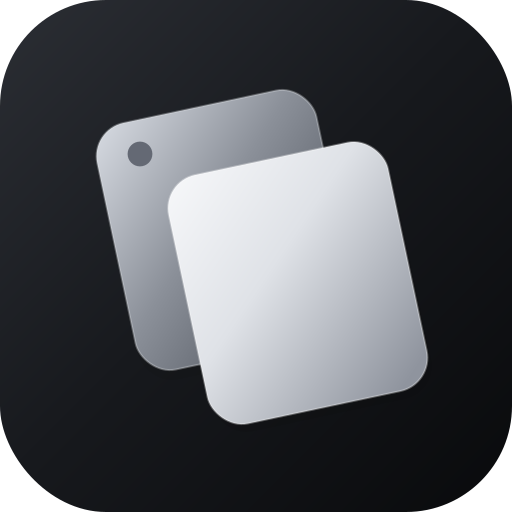
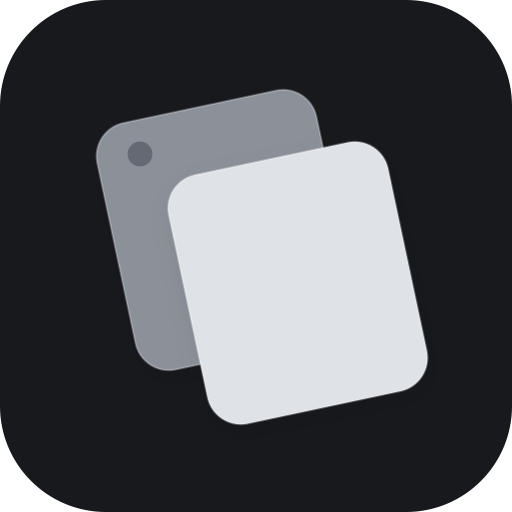
Landing page: left-aligned, flat colours, black background
Left-align the hero, drop every gradient from the page and its icons in favour of
solid colours, and use pure black as the dark theme background.

diff --git a/site/index.html b/site/index.html
@@ -31,12 +31,11 @@
     --ease: cubic-bezier(.2, .8, .2, 1);
 
     /* Dark (default) */
-    --page: radial-gradient(120% 90% at 50% 0%, #22252B 0%, var(--obsidian) 45%, var(--ink) 100%);
+    --page: #000000;
     --fg: var(--snow);
     --fg2: var(--silver);
     --tint: 216 220 227;
     --hi: 247 248 250;
-    --h1-end: #A9AEB7;
     --glass: rgba(28,30,35,.82);
     --toast: rgba(23,25,29,.85);
     --scrim: rgba(5,6,8,.35);
@@ -49,13 +48,12 @@
     color-scheme: dark;
   }
   :root[data-theme="light"] {
-    --page: radial-gradient(120% 90% at 50% 0%, #FFFFFF 0%, var(--snow) 45%, #E4E7EC 100%);
+    --page: var(--snow);
     --fg: var(--obsidian);
     --fg2: var(--graphite);
     --muted: #6B7079;
     --tint: 23 25 29;
     --hi: 23 25 29;
-    --h1-end: #5C626D;
     --glass: rgba(255,255,255,.90);
     --toast: rgba(255,255,255,.92);
     --scrim: rgba(23,25,29,.10);
@@ -86,25 +84,24 @@
   /* ---------- Hero ---------- */
   main {
     position: relative; z-index: 10; height: 100%;
-    display: grid; place-items: center; text-align: center; padding: 24px;
+    display: grid; grid-template-columns: minmax(0, 1fr); align-items: center; justify-items: start;
+    padding: 24px clamp(24px, 10vw, 140px);
   }
-  .hero { max-width: 780px; display: grid; justify-items: center; }
+  .hero { max-width: 780px; display: grid; grid-template-columns: minmax(0, 1fr); justify-items: start; }
   .mark { width: 88px; height: 88px; filter: drop-shadow(0 18px 40px var(--shadow)); margin-bottom: 28px; }
   .mark img { width: 100%; height: 100%; }
   .mark:hover img { transform: rotate(-4deg) scale(1.04); }
   .mark img { transition: transform .5s var(--ease); }
   .name { font-size: 15px; letter-spacing: .02em; color: var(--muted); margin-bottom: 18px; }
   h1 {
-    font-size: clamp(36px, 6vw, 60px); line-height: 1.04; letter-spacing: -.035em; font-weight: 600;
-    background: linear-gradient(180deg, var(--fg) 30%, var(--h1-end) 100%);
-    -webkit-background-clip: text; background-clip: text; color: transparent;
+    font-size: clamp(36px, 6vw, 60px); line-height: 1.04; letter-spacing: -.035em; font-weight: 600; color: var(--fg);
   }
   .lede { margin-top: 18px; font-size: 17px; line-height: 1.55; color: var(--muted); max-width: 500px; }
   .lede b { color: var(--fg2); font-weight: 500; }
 
   /* The try-it line */
   .try {
-    margin-top: 40px; display: inline-flex; align-items: center; gap: 12px;
+    margin-top: 40px; padding: 0; display: inline-flex; align-items: center; gap: 12px;
     font-size: 14px; color: var(--muted); background: none; border: 0; cursor: pointer; font-family: inherit;
   }
   .try:hover { color: var(--fg2); }
@@ -113,7 +110,7 @@
     font-family: var(--mono); font-size: 13px; color: var(--fg2);
     min-width: 30px; height: 30px; padding: 0 8px; display: inline-grid; place-items: center;
     border-radius: 8px; border: 1px solid rgb(var(--tint) / .16);
-    background: linear-gradient(180deg, rgb(var(--tint) / .10), rgb(var(--tint) / .03));
+    background: rgb(var(--tint) / .07);
     box-shadow: 0 2px 0 var(--key-shadow), inset 0 1px 0 rgba(255,255,255,.06);
     transition: transform .08s, box-shadow .08s, background .08s, color .08s;
   }
@@ -124,7 +121,7 @@
   .try.hold:hover { color: var(--muted); }
   @media (hover: none) { .try.hold { display: none; } }
 
-  .cta { margin-top: 36px; display: flex; gap: 12px; flex-wrap: wrap; justify-content: center; }
+  .cta { margin-top: 36px; display: flex; gap: 12px; flex-wrap: wrap; }
   .btn {
     font-size: 14px; font-weight: 500; text-decoration: none; padding: 11px 18px; border-radius: 11px;
     transition: transform .2s var(--ease), background .2s, border-color .2s;
